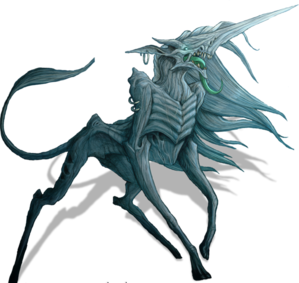
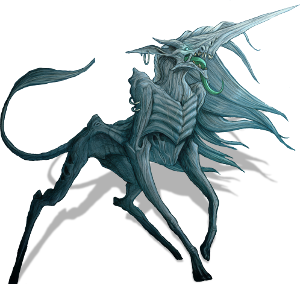
tweaks to Impaler cardboard

diff --git a/combat/css/style.css b/combat/css/style.css
@@ -297,9 +297,9 @@ div.row:nth-child(9){top:38.944em;}
 
 /*-----Impaler----*/
 #creatureWrapper .creature.type_S6{ 
-	width: 299px;
-	height: 273px;
-	margin-top: -229px;
+	width: 300px;
+	height: 274px;
+	margin-top: -230px;
 	padding: 0px 0px 10px;
 	-webkit-transform: rotateX(-33deg) scale(.75,1.35);
 	-webkit-transform-origin:65% 100%;
